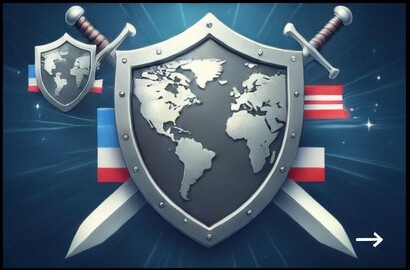
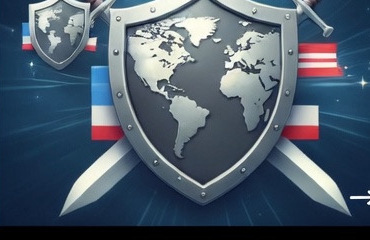
Fix issue card images and make action cards clickable
- Re-crop all 8 issue illustrations to remove arrow artifacts and black borders
- Make "When to Call/Write/Post" cards link to /draft with appropriate mode
- Add action CTAs (START A CALL SCRIPT, WRITE A LETTER, DRAFT A POST)

diff --git a/src/app/issues/page.tsx b/src/app/issues/page.tsx
@@ -27,7 +27,7 @@ const issueColor: Record<string, string> = {
 
 const issuePosition: Record<string, string> = {
   environment: "center top",
-  immigration: "left bottom",
+  immigration: "center",
 };
 
 const issueSummary: Record<string, string> = {
@@ -138,21 +138,10 @@ export default function IssuesPage() {
           How to Make Your Voice Heard
         </h2>
         <div className="grid grid-cols-1 md:grid-cols-3 gap-5">
-          <div className="border-2 border-gray-200 p-5 bg-white">
+          <Link href="/draft?mode=call" className="no-underline text-inherit border-2 border-gray-200 p-5 bg-white hover:shadow-lg hover:border-gray-300 transition-all group">
             <div className="w-10 h-10 bg-black flex items-center justify-center mb-3">
-              <svg
-                className="w-5 h-5 text-white"
-                fill="none"
-                viewBox="0 0 24 24"
-                stroke="currentColor"
-                strokeWidth={1.8}
-                aria-hidden="true"
-              >
-                <path
-                  strokeLinecap="round"
-                  strokeLinejoin="round"
-                  d="M3 5a2 2 0 012-2h3.28a1 1 0 01.948.684l1.498 4.493a1 1 0 01-.502 1.21l-2.257 1.13a11.042 11.042 0 005.516 5.516l1.13-2.257a1 1 0 011.21-.502l4.493 1.498a1 1 0 01.684.949V19a2 2 0 01-2 2h-1C9.716 21 3 14.284 3 6V5z"
-                />
+              <svg className="w-5 h-5 text-white" fill="none" viewBox="0 0 24 24" stroke="currentColor" strokeWidth={1.8} aria-hidden="true">
+                <path strokeLinecap="round" strokeLinejoin="round" d="M3 5a2 2 0 012-2h3.28a1 1 0 01.948.684l1.498 4.493a1 1 0 01-.502 1.21l-2.257 1.13a11.042 11.042 0 005.516 5.516l1.13-2.257a1 1 0 011.21-.502l4.493 1.498a1 1 0 01.684.949V19a2 2 0 01-2 2h-1C9.716 21 3 14.284 3 6V5z" />
               </svg>
             </div>
             <h3 className="font-headline text-xl normal-case mb-3">
@@ -163,22 +152,14 @@ export default function IssuesPage() {
               logged as constituent contacts and taken seriously. Call the DC
               office 9am-5pm ET. State your name, ZIP, and position clearly.
             </p>
-          </div>
-          <div className="border-2 border-gray-200 p-5 bg-white">
+            <span className="inline-block mt-3 font-headline text-sm text-gray-400 group-hover:text-red group-hover:translate-x-1 transition-all">
+              START A CALL SCRIPT &rarr;
+            </span>
+          </Link>
+          <Link href="/draft" className="no-underline text-inherit border-2 border-gray-200 p-5 bg-white hover:shadow-lg hover:border-gray-300 transition-all group">
             <div className="w-10 h-10 bg-black flex items-center justify-center mb-3">
-              <svg
-                className="w-5 h-5 text-white"
-                fill="none"
-                viewBox="0 0 24 24"
-                stroke="currentColor"
-                strokeWidth={1.8}
-                aria-hidden="true"
-              >
-                <path
-                  strokeLinecap="round"
-                  strokeLinejoin="round"
-                  d="M3 8l7.89 5.26a2 2 0 002.22 0L21 8M5 19h14a2 2 0 002-2V7a2 2 0 00-2-2H5a2 2 0 00-2 2v10a2 2 0 002 2z"
-                />
+              <svg className="w-5 h-5 text-white" fill="none" viewBox="0 0 24 24" stroke="currentColor" strokeWidth={1.8} aria-hidden="true">
+                <path strokeLinecap="round" strokeLinejoin="round" d="M3 8l7.89 5.26a2 2 0 002.22 0L21 8M5 19h14a2 2 0 002-2V7a2 2 0 00-2-2H5a2 2 0 00-2 2v10a2 2 0 002 2z" />
               </svg>
             </div>
             <h3 className="font-headline text-xl normal-case mb-3">
@@ -189,22 +170,14 @@ export default function IssuesPage() {
               personal story. Letters carry more weight than emails. A physical
               letter to the district office shows serious commitment.
             </p>
-          </div>
-          <div className="border-2 border-gray-200 p-5 bg-white">
+            <span className="inline-block mt-3 font-headline text-sm text-gray-400 group-hover:text-red group-hover:translate-x-1 transition-all">
+              WRITE A LETTER &rarr;
+            </span>
+          </Link>
+          <Link href="/draft?mode=social" className="no-underline text-inherit border-2 border-gray-200 p-5 bg-white hover:shadow-lg hover:border-gray-300 transition-all group">
             <div className="w-10 h-10 bg-black flex items-center justify-center mb-3">
-              <svg
-                className="w-5 h-5 text-white"
-                fill="none"
-                viewBox="0 0 24 24"
-                stroke="currentColor"
-                strokeWidth={1.8}
-                aria-hidden="true"
-              >
-                <path
-                  strokeLinecap="round"
-                  strokeLinejoin="round"
-                  d="M11 5.882V19.24a1.76 1.76 0 01-3.417.592l-2.147-6.15M18 13a3 3 0 100-6M5.436 13.683A4.001 4.001 0 017 6h1.832c4.1 0 7.625-1.234 9.168-3v14c-1.543-1.766-5.067-3-9.168-3H7a3.988 3.988 0 01-1.564-.317z"
-                />
+              <svg className="w-5 h-5 text-white" fill="none" viewBox="0 0 24 24" stroke="currentColor" strokeWidth={1.8} aria-hidden="true">
+                <path strokeLinecap="round" strokeLinejoin="round" d="M11 5.882V19.24a1.76 1.76 0 01-3.417.592l-2.147-6.15M18 13a3 3 0 100-6M5.436 13.683A4.001 4.001 0 017 6h1.832c4.1 0 7.625-1.234 9.168-3v14c-1.543-1.766-5.067-3-9.168-3H7a3.988 3.988 0 01-1.564-.317z" />
               </svg>
             </div>
             <h3 className="font-headline text-xl normal-case mb-3">
@@ -215,7 +188,10 @@ export default function IssuesPage() {
               movement. Tag your rep directly. Public posts get tracked by comms
               staff. Call first, then post to encourage others.
             </p>
-          </div>
+            <span className="inline-block mt-3 font-headline text-sm text-gray-400 group-hover:text-red group-hover:translate-x-1 transition-all">
+              DRAFT A POST &rarr;
+            </span>
+          </Link>
         </div>
       </section>
     </div>

diff --git a/src/app/page.tsx b/src/app/page.tsx
@@ -50,7 +50,7 @@ const issueImage: Record<string, string> = {
 
 const issuePosition: Record<string, string> = {
   environment: "center top",
-  immigration: "left bottom",
+  immigration: "center",
 };
 
 interface FeedItem {
